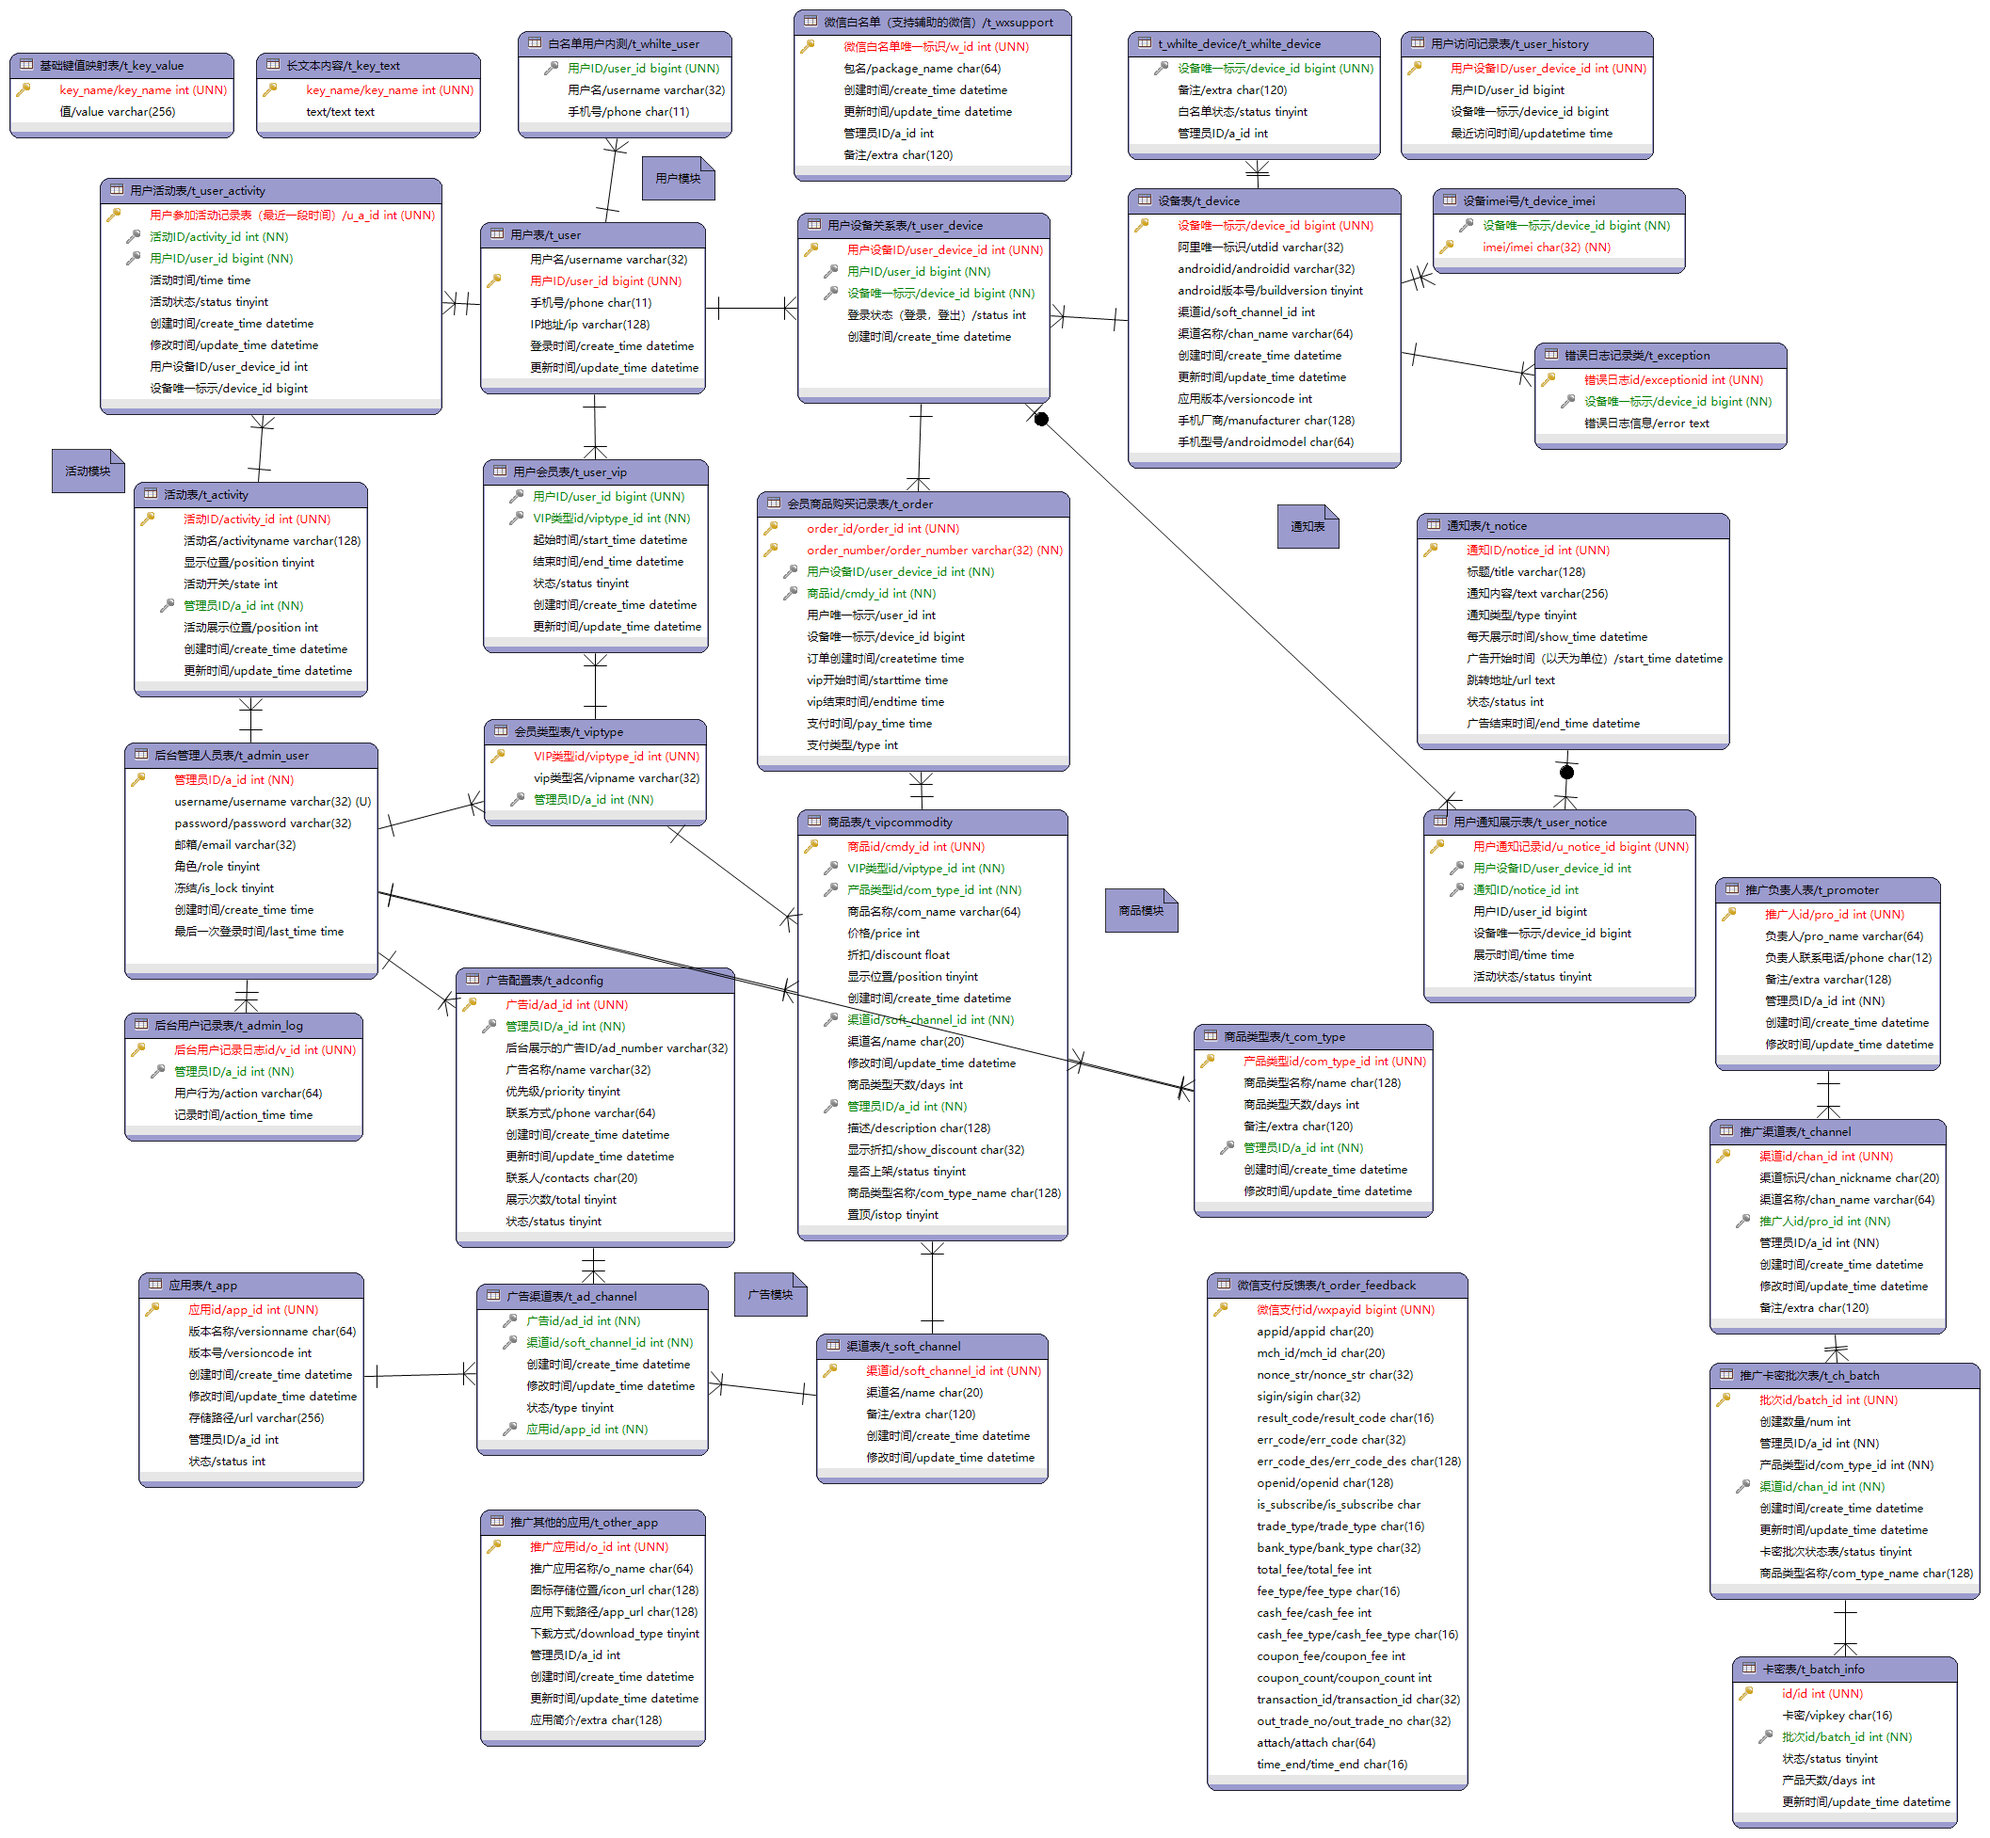
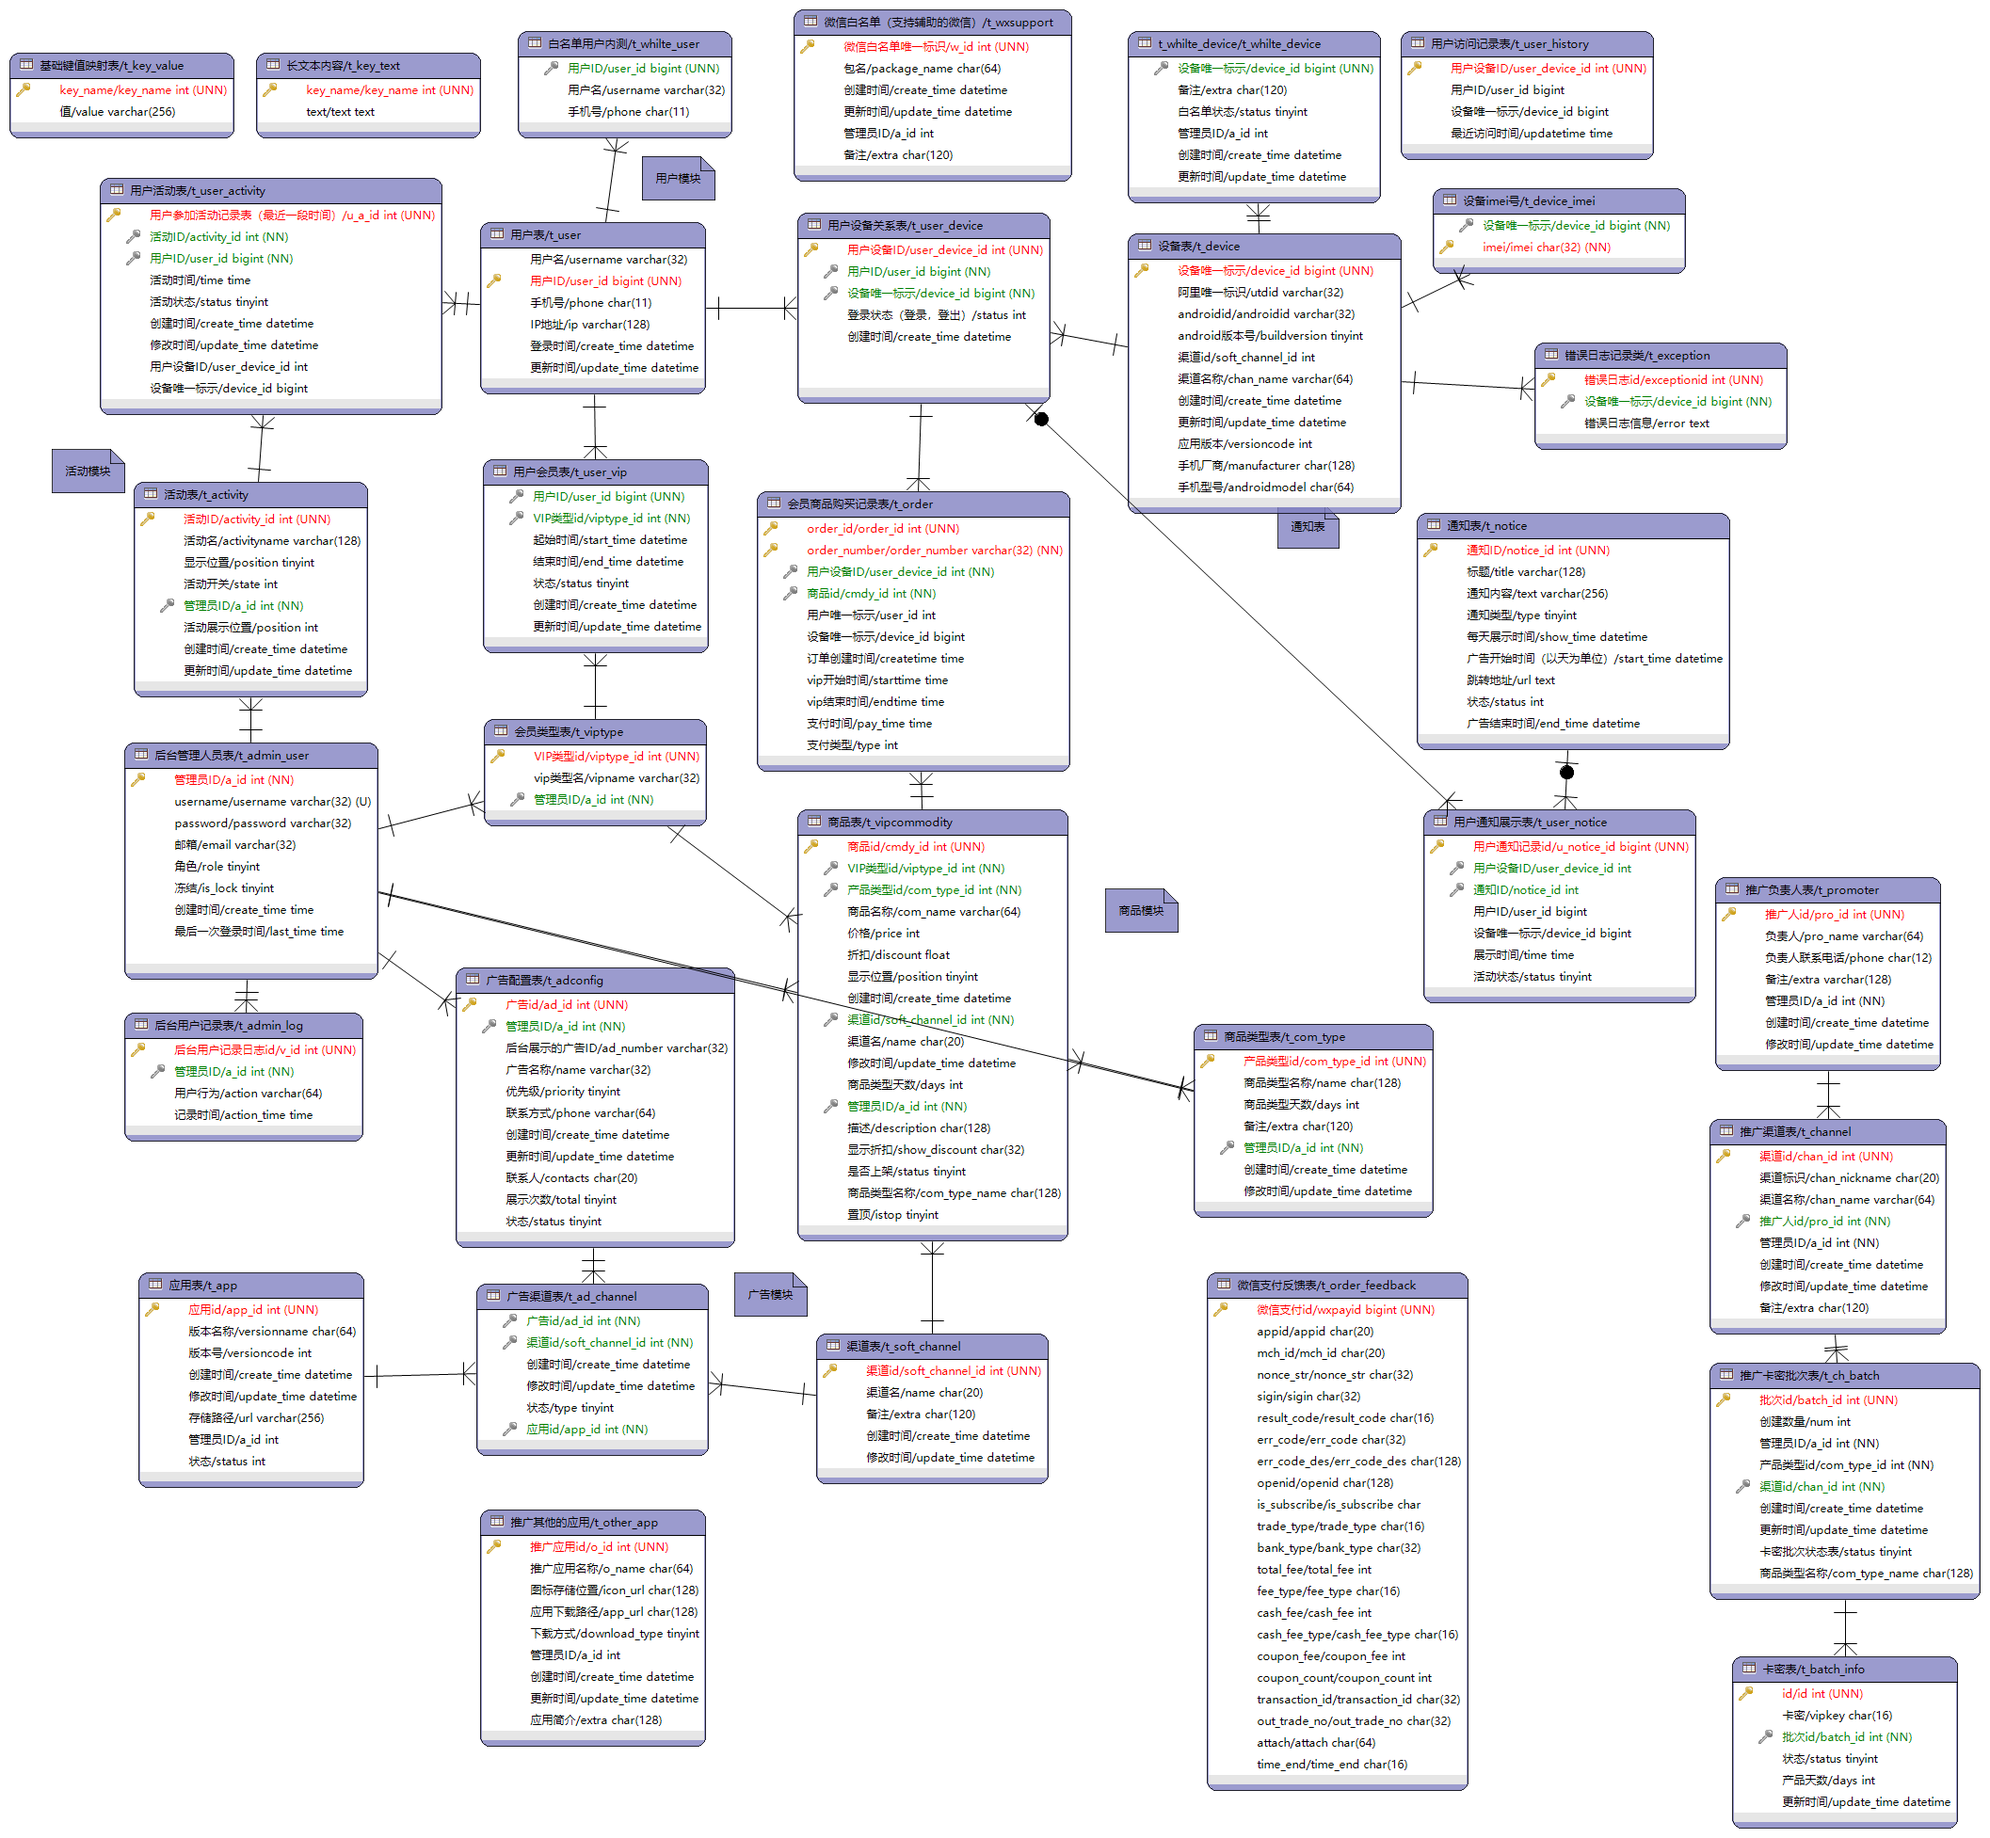
update t_whilte_device table

Changed region(s): [[0.562, 0.0625, 0.7181, 0.2811], [0.5307, 0.1562, 0.562, 0.1874]]

diff --git a/smartweb/src/main/java/com/rpa/web/pojo/WhilteDevicePO.java b/smartweb/src/main/java/com/rpa/web/pojo/WhilteDevicePO.java
@@ -1,11 +1,11 @@
 package com.rpa.web.pojo;
 
 import java.io.Serializable;
+import java.util.Date;
 
 /**
  * t_whilte_device
- *
- * @author
+ * @author 
  */
 public class WhilteDevicePO implements Serializable {
     /**
@@ -19,7 +19,9 @@ public class WhilteDevicePO implements Serializable {
 
     private Integer aId;
 
-    private String imei;
+    private Date createTime;
+
+    private Date updateTime;
 
     private static final long serialVersionUID = 1L;
 
@@ -55,12 +57,20 @@ public class WhilteDevicePO implements Serializable {
         this.aId = aId;
     }
 
-    public String getImei() {
-        return imei;
+    public Date getCreateTime() {
+        return createTime;
     }
 
-    public void setImei(String imei) {
-        this.imei = imei;
+    public void setCreateTime(Date createTime) {
+        this.createTime = createTime;
+    }
+
+    public Date getUpdateTime() {
+        return updateTime;
+    }
+
+    public void setUpdateTime(Date updateTime) {
+        this.updateTime = updateTime;
     }
 
     @Override
@@ -76,9 +86,11 @@ public class WhilteDevicePO implements Serializable {
         }
         WhilteDevicePO other = (WhilteDevicePO) that;
         return (this.getDeviceId() == null ? other.getDeviceId() == null : this.getDeviceId().equals(other.getDeviceId()))
-                && (this.getExtra() == null ? other.getExtra() == null : this.getExtra().equals(other.getExtra()))
-                && (this.getStatus() == null ? other.getStatus() == null : this.getStatus().equals(other.getStatus()))
-                && (this.getaId() == null ? other.getaId() == null : this.getaId().equals(other.getaId()));
+            && (this.getExtra() == null ? other.getExtra() == null : this.getExtra().equals(other.getExtra()))
+            && (this.getStatus() == null ? other.getStatus() == null : this.getStatus().equals(other.getStatus()))
+            && (this.getaId() == null ? other.getaId() == null : this.getaId().equals(other.getaId()))
+            && (this.getCreateTime() == null ? other.getCreateTime() == null : this.getCreateTime().equals(other.getCreateTime()))
+            && (this.getUpdateTime() == null ? other.getUpdateTime() == null : this.getUpdateTime().equals(other.getUpdateTime()));
     }
 
     @Override
@@ -89,6 +101,8 @@ public class WhilteDevicePO implements Serializable {
         result = prime * result + ((getExtra() == null) ? 0 : getExtra().hashCode());
         result = prime * result + ((getStatus() == null) ? 0 : getStatus().hashCode());
         result = prime * result + ((getaId() == null) ? 0 : getaId().hashCode());
+        result = prime * result + ((getCreateTime() == null) ? 0 : getCreateTime().hashCode());
+        result = prime * result + ((getUpdateTime() == null) ? 0 : getUpdateTime().hashCode());
         return result;
     }
 
@@ -102,6 +116,8 @@ public class WhilteDevicePO implements Serializable {
         sb.append(", extra=").append(extra);
         sb.append(", status=").append(status);
         sb.append(", aId=").append(aId);
+        sb.append(", createTime=").append(createTime);
+        sb.append(", updateTime=").append(updateTime);
         sb.append(", serialVersionUID=").append(serialVersionUID);
         sb.append("]");
         return sb.toString();
